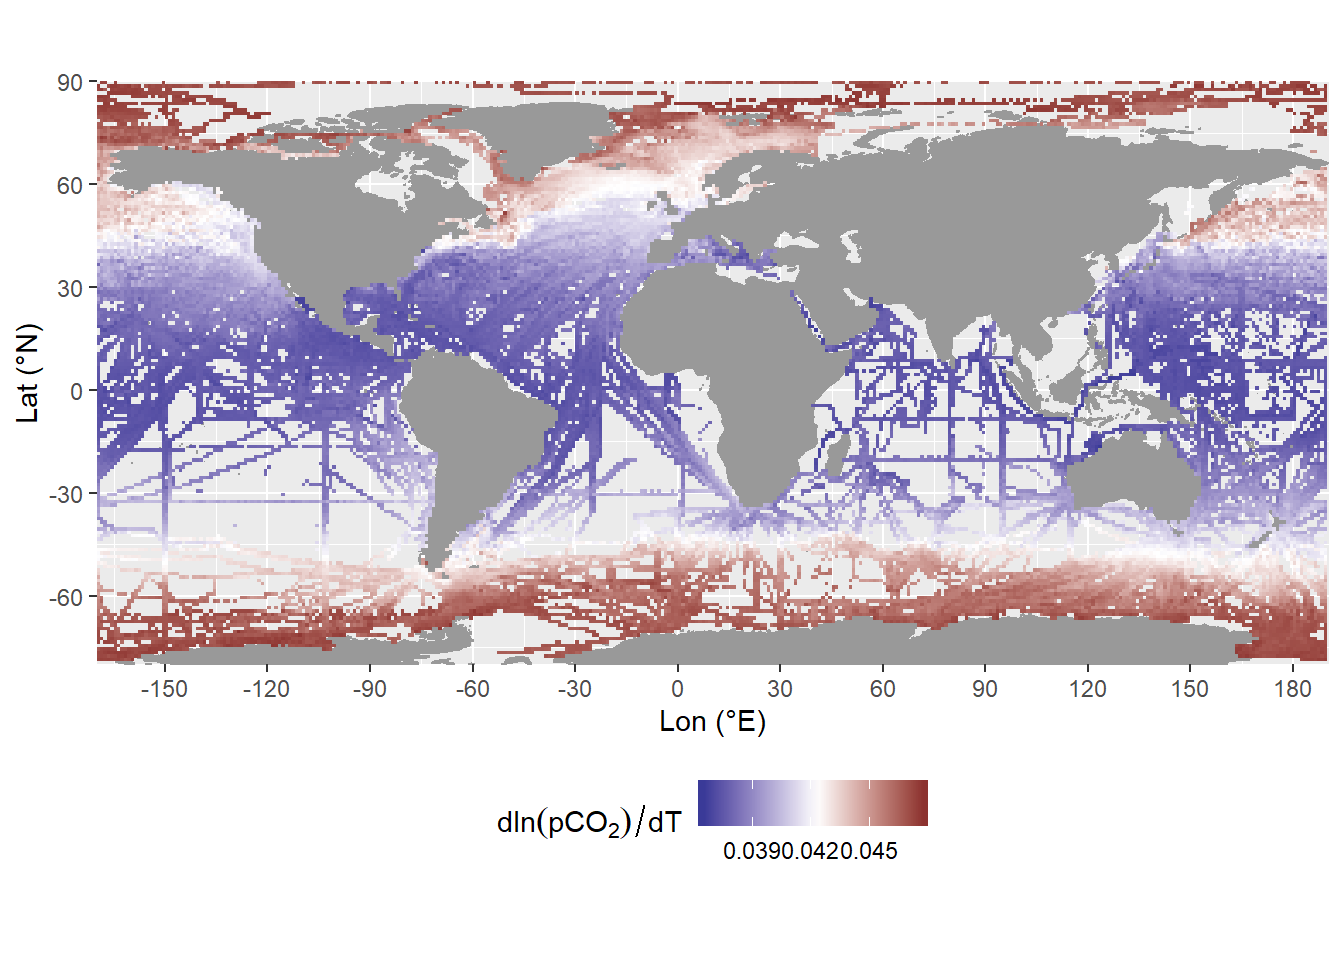
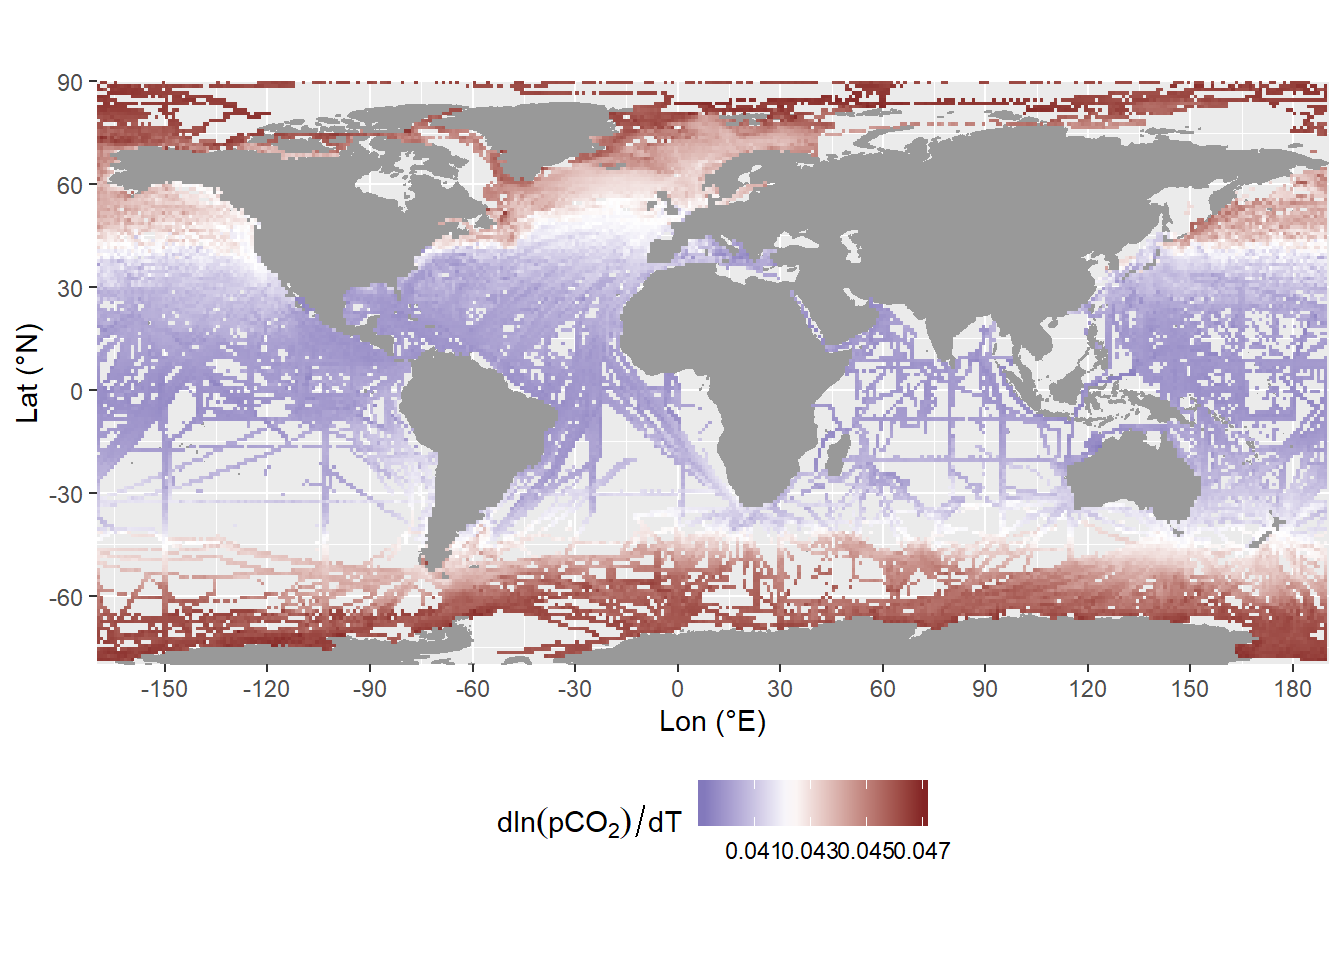
Build site.

Changed region(s): [[0.0625, 0.125, 1.0, 0.625], [0.5, 0.8125, 0.7188, 0.9062]]

diff --git a/docs/pCO2_temperature_conversion.html b/docs/pCO2_temperature_conversion.html
@@ -527,10 +527,10 @@ This reproducible <a href="http://rmarkdown.rstudio.com">R Markdown</a> analysis
 <div class="panel panel-default">
 <div class="panel-heading">
 <p class="panel-title">
-<a data-toggle="collapse" data-parent="#workflowr-checks" href="#strongRepositoryversionstrongahrefhttpsgithubcomjensdanielmuellerSOCATpCO2temperatureconversiontreee79060c6e04e8ec270f784d0993a60925b36ca24targetblanke79060ca"> <span class="glyphicon glyphicon-ok text-success" aria-hidden="true"></span> <strong>Repository version:</strong> <a href="https://github.com/jens-daniel-mueller/SOCAT_pCO2_temperature_conversion/tree/e79060c6e04e8ec270f784d0993a60925b36ca24" target="_blank">e79060c</a> </a>
+<a data-toggle="collapse" data-parent="#workflowr-checks" href="#strongRepositoryversionstrongahrefhttpsgithubcomjensdanielmuellerSOCATpCO2temperatureconversiontree16a91f5a98a24c12593ca2f985493ab01dce122ftargetblank16a91f5a"> <span class="glyphicon glyphicon-ok text-success" aria-hidden="true"></span> <strong>Repository version:</strong> <a href="https://github.com/jens-daniel-mueller/SOCAT_pCO2_temperature_conversion/tree/16a91f5a98a24c12593ca2f985493ab01dce122f" target="_blank">16a91f5</a> </a>
 </p>
 </div>
[2 lines of base64/hex data omitted]
 <div class="panel-body">
 <p>
 Great! You are using Git for version control. Tracking code development and connecting the code version to the results is critical for reproducibility. The version displayed above was the version of the Git repository at the time these results were generated. <br><br> Note that you need to be careful to ensure that all relevant files for the analysis have been committed to Git prior to generating the results (you can use <code>wflow_publish</code> or <code>wflow_git_commit</code>). workflowr only checks the R Markdown file, but you know if there are other scripts or data files that it depends on. Below is the status of the Git repository when the results were generated:
@@ -541,6 +541,7 @@ Ignored files:
     Ignored:    .Rproj.user/
     Ignored:    data/_summarized_data/
     Ignored:    data/meta_information/
+    Ignored:    data/model/
 
 </code></pre>
 <p>
@@ -641,7 +642,11 @@ lm(formula = T_coeff ~ poly(Tequ, 2) + pCO2equ, data = df)
 Coefficients:
    (Intercept)  poly(Tequ, 2)1  poly(Tequ, 2)2         pCO2equ  
      4.404e-02      -1.176e-02       1.847e-03      -4.405e-06  </code></pre>
-<pre class="r"><code>df &lt;- df %&gt;% 
+<pre class="r"><code>model %&gt;% 
+  saveRDS(here::here(&quot;/data/model&quot;,&quot;T_coeff_model.rds&quot;))
+
+
+df &lt;- df %&gt;% 
   mutate(T_coeff_model = predict(model),
          d_T_coeff = T_coeff - T_coeff_model)
 
@@ -673,6 +678,35 @@ p2 &lt;- df %&gt;%
 
 (p1 / p2)</code></pre>
 <p><img src="figure/pCO2_temperature_conversion.Rmd/fit_T_coeff-1.png" width="672" style="display: block; margin: auto;" /></p>
+<div id="comparison-to-schneider" class="section level3">
+<h3>Comparison to Schneider</h3>
+<p>The model fitted here was compared to the one fitted by Bernd Schneider, based on the CO<sub>2</sub> dissociation constants by Mojica Prieto and Millero (2002), which are currently not available in <code>seacarb</code>.</p>
+<pre class="r"><code>df &lt;- df %&gt;% 
+  mutate(T_coeff_Schneider = 3.92*1e-6*Tequ^2 - 4.27*1e-4*Tequ - 4.384*1e-6*pCO2equ + 4.814*1e-2,
+         d_T_coeff_Schneider = T_coeff_Schneider - T_coeff_model)
+
+model_plot &lt;- expand_grid(Tequ  = seq(0,30,0.1),
+                  pCO2equ = seq(200,600,100))
+
+model_plot &lt;- model_plot %&gt;% 
+  mutate(T_coeff_Schneider = 3.92*1e-6*Tequ^2 - 4.27*1e-4*Tequ - 4.384*1e-6*pCO2equ + 4.814*1e-2,)
+
+
+df %&gt;% 
+  ggplot(aes(Tequ, T_coeff, fill=as.factor(pCO2equ)))+
+  geom_hline(yintercept = 0.0423, col=&quot;red&quot;)+
+  annotate(&quot;text&quot;, x = 25, y = 0.043, label = &quot;0.0423&quot;, col=&quot;red&quot;)+
+  geom_line(data = model_plot, (aes(Tequ, T_coeff_Schneider,
+                                    col=as.factor(pCO2equ),
+                                    linetype = &quot;Schneider&quot;)))+
+  scale_linetype(name=&quot;model&quot;)+
+  scale_shape_manual(name=&quot;model&quot;, values = 21)+
+  geom_point(aes(shape=&quot;Mueller/Luecker&quot;))+
+  scale_color_viridis_d(name = expression(pCO[2]~(µatm)))+
+  scale_fill_viridis_d(name = expression(pCO[2]~(µatm)))+
+  scale_y_continuous(breaks = seq(0, 1,0.001))+
+  labs(x=expression(T[equi]~(&quot;°C&quot;)), y=expression(dln(pCO[2])/dT))</code></pre>
+<p><img src="figure/pCO2_temperature_conversion.Rmd/compare_fit_T_coeff_Schneider-1.png" width="672" style="display: block; margin: auto;" /></p>
 <br>
 <p>
 <button type="button" class="btn btn-default btn-workflowr btn-workflowr-sessioninfo" data-toggle="collapse" data-target="#workflowr-sessioninfo" style="display: block;">
@@ -704,21 +738,22 @@ other attached packages:
 [13] ggplot2_3.2.1   tidyverse_1.3.0
 
 loaded via a namespace (and not attached):
- [1] tidyselect_0.2.5  xfun_0.10         haven_2.2.0       lattice_0.20-35  
- [5] colorspace_1.4-1  vctrs_0.2.0       generics_0.0.2    viridisLite_0.3.0
- [9] htmltools_0.4.0   yaml_2.2.0        rlang_0.4.1       later_1.0.0      
-[13] pillar_1.4.2      withr_2.1.2       glue_1.3.1        DBI_1.0.0        
-[17] dbplyr_1.4.2      modelr_0.1.5      readxl_1.3.1      lifecycle_0.1.0  
-[21] munsell_0.5.0     gtable_0.3.0      workflowr_1.6.0   cellranger_1.1.0 
-[25] rvest_0.3.5       evaluate_0.14     labeling_0.3      knitr_1.26       
-[29] httpuv_1.5.2      broom_0.5.3       Rcpp_1.0.2        promises_1.1.0   
-[33] backports_1.1.5   scales_1.0.0      jsonlite_1.6      fs_1.3.1         
-[37] hms_0.5.2         digest_0.6.22     stringi_1.4.3     grid_3.5.0       
-[41] rprojroot_1.3-2   cli_1.1.0         tools_3.5.0       magrittr_1.5     
-[45] lazyeval_0.2.2    crayon_1.3.4      pkgconfig_2.0.3   zeallot_0.1.0    
-[49] xml2_1.2.2        reprex_0.3.0      lubridate_1.7.4   rstudioapi_0.10  
-[53] assertthat_0.2.1  rmarkdown_2.0     httr_1.4.1        R6_2.4.0         
-[57] nlme_3.1-137      git2r_0.26.1      compiler_3.5.0   </code></pre>
+ [1] Rcpp_1.0.2        lubridate_1.7.4   here_0.1          lattice_0.20-35  
+ [5] assertthat_0.2.1  zeallot_0.1.0     rprojroot_1.3-2   digest_0.6.22    
+ [9] R6_2.4.0          cellranger_1.1.0  backports_1.1.5   reprex_0.3.0     
+[13] evaluate_0.14     httr_1.4.1        pillar_1.4.2      rlang_0.4.1      
+[17] lazyeval_0.2.2    readxl_1.3.1      rstudioapi_0.10   rmarkdown_2.0    
+[21] labeling_0.3      munsell_0.5.0     broom_0.5.3       compiler_3.5.0   
+[25] httpuv_1.5.2      modelr_0.1.5      xfun_0.10         pkgconfig_2.0.3  
+[29] htmltools_0.4.0   tidyselect_0.2.5  workflowr_1.6.0   viridisLite_0.3.0
+[33] crayon_1.3.4      dbplyr_1.4.2      withr_2.1.2       later_1.0.0      
+[37] grid_3.5.0        nlme_3.1-137      jsonlite_1.6      gtable_0.3.0     
+[41] lifecycle_0.1.0   DBI_1.0.0         git2r_0.26.1      magrittr_1.5     
+[45] scales_1.0.0      cli_1.1.0         stringi_1.4.3     fs_1.3.1         
+[49] promises_1.1.0    xml2_1.2.2        generics_0.0.2    vctrs_0.2.0      
+[53] tools_3.5.0       glue_1.3.1        hms_0.5.2         yaml_2.2.0       
+[57] colorspace_1.4-1  rvest_0.3.5       knitr_1.26        haven_2.2.0      </code></pre>
+</div>
 </div>
 </div>
 </div>

diff --git a/docs/SOCAT_revision.html b/docs/SOCAT_revision.html
@@ -527,10 +527,10 @@ This reproducible <a href="http://rmarkdown.rstudio.com">R Markdown</a> analysis
 <div class="panel panel-default">
 <div class="panel-heading">
 <p class="panel-title">
-<a data-toggle="collapse" data-parent="#workflowr-checks" href="#strongRepositoryversionstrongahrefhttpsgithubcomjensdanielmuellerSOCATpCO2temperatureconversiontreee79060c6e04e8ec270f784d0993a60925b36ca24targetblanke79060ca"> <span class="glyphicon glyphicon-ok text-success" aria-hidden="true"></span> <strong>Repository version:</strong> <a href="https://github.com/jens-daniel-mueller/SOCAT_pCO2_temperature_conversion/tree/e79060c6e04e8ec270f784d0993a60925b36ca24" target="_blank">e79060c</a> </a>
+<a data-toggle="collapse" data-parent="#workflowr-checks" href="#strongRepositoryversionstrongahrefhttpsgithubcomjensdanielmuellerSOCATpCO2temperatureconversiontree16a91f5a98a24c12593ca2f985493ab01dce122ftargetblank16a91f5a"> <span class="glyphicon glyphicon-ok text-success" aria-hidden="true"></span> <strong>Repository version:</strong> <a href="https://github.com/jens-daniel-mueller/SOCAT_pCO2_temperature_conversion/tree/16a91f5a98a24c12593ca2f985493ab01dce122f" target="_blank">16a91f5</a> </a>
 </p>
 </div>
[2 lines of base64/hex data omitted]
 <div class="panel-body">
 <p>
 Great! You are using Git for version control. Tracking code development and connecting the code version to the results is critical for reproducibility. The version displayed above was the version of the Git repository at the time these results were generated. <br><br> Note that you need to be careful to ensure that all relevant files for the analysis have been committed to Git prior to generating the results (you can use <code>wflow_publish</code> or <code>wflow_git_commit</code>). workflowr only checks the R Markdown file, but you know if there are other scripts or data files that it depends on. Below is the status of the Git repository when the results were generated:
@@ -541,6 +541,7 @@ Ignored files:
     Ignored:    .Rproj.user/
     Ignored:    data/_summarized_data/
     Ignored:    data/meta_information/
+    Ignored:    data/model/
 
 </code></pre>
 <p>
@@ -789,9 +790,17 @@ df %&gt;%
 <div id="temperature-offset" class="section level1">
 <h1>Temperature offset</h1>
 <p>fCO<sub>2</sub> in the equilibrator is backcalculated from fCO2rec based on the Takahashi temperature dependence of pCO<sub>2</sub>. fCO2rec is than calculated with a temperature and pCO<sub>2</sub> dependent conversion factor.</p>
-<pre class="r"><code>df &lt;- df %&gt;%
+<pre class="r"><code>model &lt;- 
+  readRDS(here::here(&quot;/data/model&quot;,&quot;T_coeff_model.rds&quot;))
+
+
+
+df &lt;- df %&gt;%
+  mutate(pCO2equ = fCO2rec)
+
+df &lt;- df %&gt;%
   mutate(fCO2equ = fCO2rec / exp(0.0423*d_Tem),
-         t_coeff = 3.92*1e-6*Tequ^2 - 4.27*1e-4*Tequ - 4.384*1e-6*fCO2equ + 4.814*1e-2,
+         t_coeff = predict(model, df),
          fCO2rec_Mueller = fCO2equ * exp(t_coeff*d_Tem),
          d_fCO2 = fCO2rec - fCO2rec_Mueller)</code></pre>
 <pre class="r"><code>maps_SOCAT_recalc &lt;- df %&gt;% 

diff --git a/docs/index.html b/docs/index.html
@@ -382,10 +382,10 @@ This reproducible <a href="http://rmarkdown.rstudio.com">R Markdown</a> analysis
 <div class="panel panel-default">
 <div class="panel-heading">
 <p class="panel-title">
-<a data-toggle="collapse" data-parent="#workflowr-checks" href="#strongRepositoryversionstrongahrefhttpsgithubcomjensdanielmuellerSOCATpCO2temperatureconversiontreee79060c6e04e8ec270f784d0993a60925b36ca24targetblanke79060ca"> <span class="glyphicon glyphicon-ok text-success" aria-hidden="true"></span> <strong>Repository version:</strong> <a href="https://github.com/jens-daniel-mueller/SOCAT_pCO2_temperature_conversion/tree/e79060c6e04e8ec270f784d0993a60925b36ca24" target="_blank">e79060c</a> </a>
+<a data-toggle="collapse" data-parent="#workflowr-checks" href="#strongRepositoryversionstrongahrefhttpsgithubcomjensdanielmuellerSOCATpCO2temperatureconversiontree16a91f5a98a24c12593ca2f985493ab01dce122ftargetblank16a91f5a"> <span class="glyphicon glyphicon-ok text-success" aria-hidden="true"></span> <strong>Repository version:</strong> <a href="https://github.com/jens-daniel-mueller/SOCAT_pCO2_temperature_conversion/tree/16a91f5a98a24c12593ca2f985493ab01dce122f" target="_blank">16a91f5</a> </a>
 </p>
 </div>
[2 lines of base64/hex data omitted]
 <div class="panel-body">
 <p>
 Great! You are using Git for version control. Tracking code development and connecting the code version to the results is critical for reproducibility. The version displayed above was the version of the Git repository at the time these results were generated. <br><br> Note that you need to be careful to ensure that all relevant files for the analysis have been committed to Git prior to generating the results (you can use <code>wflow_publish</code> or <code>wflow_git_commit</code>). workflowr only checks the R Markdown file, but you know if there are other scripts or data files that it depends on. Below is the status of the Git repository when the results were generated:
@@ -396,6 +396,7 @@ Ignored files:
     Ignored:    .Rproj.user/
     Ignored:    data/_summarized_data/
     Ignored:    data/meta_information/
+    Ignored:    data/model/
 
 </code></pre>
 <p>
